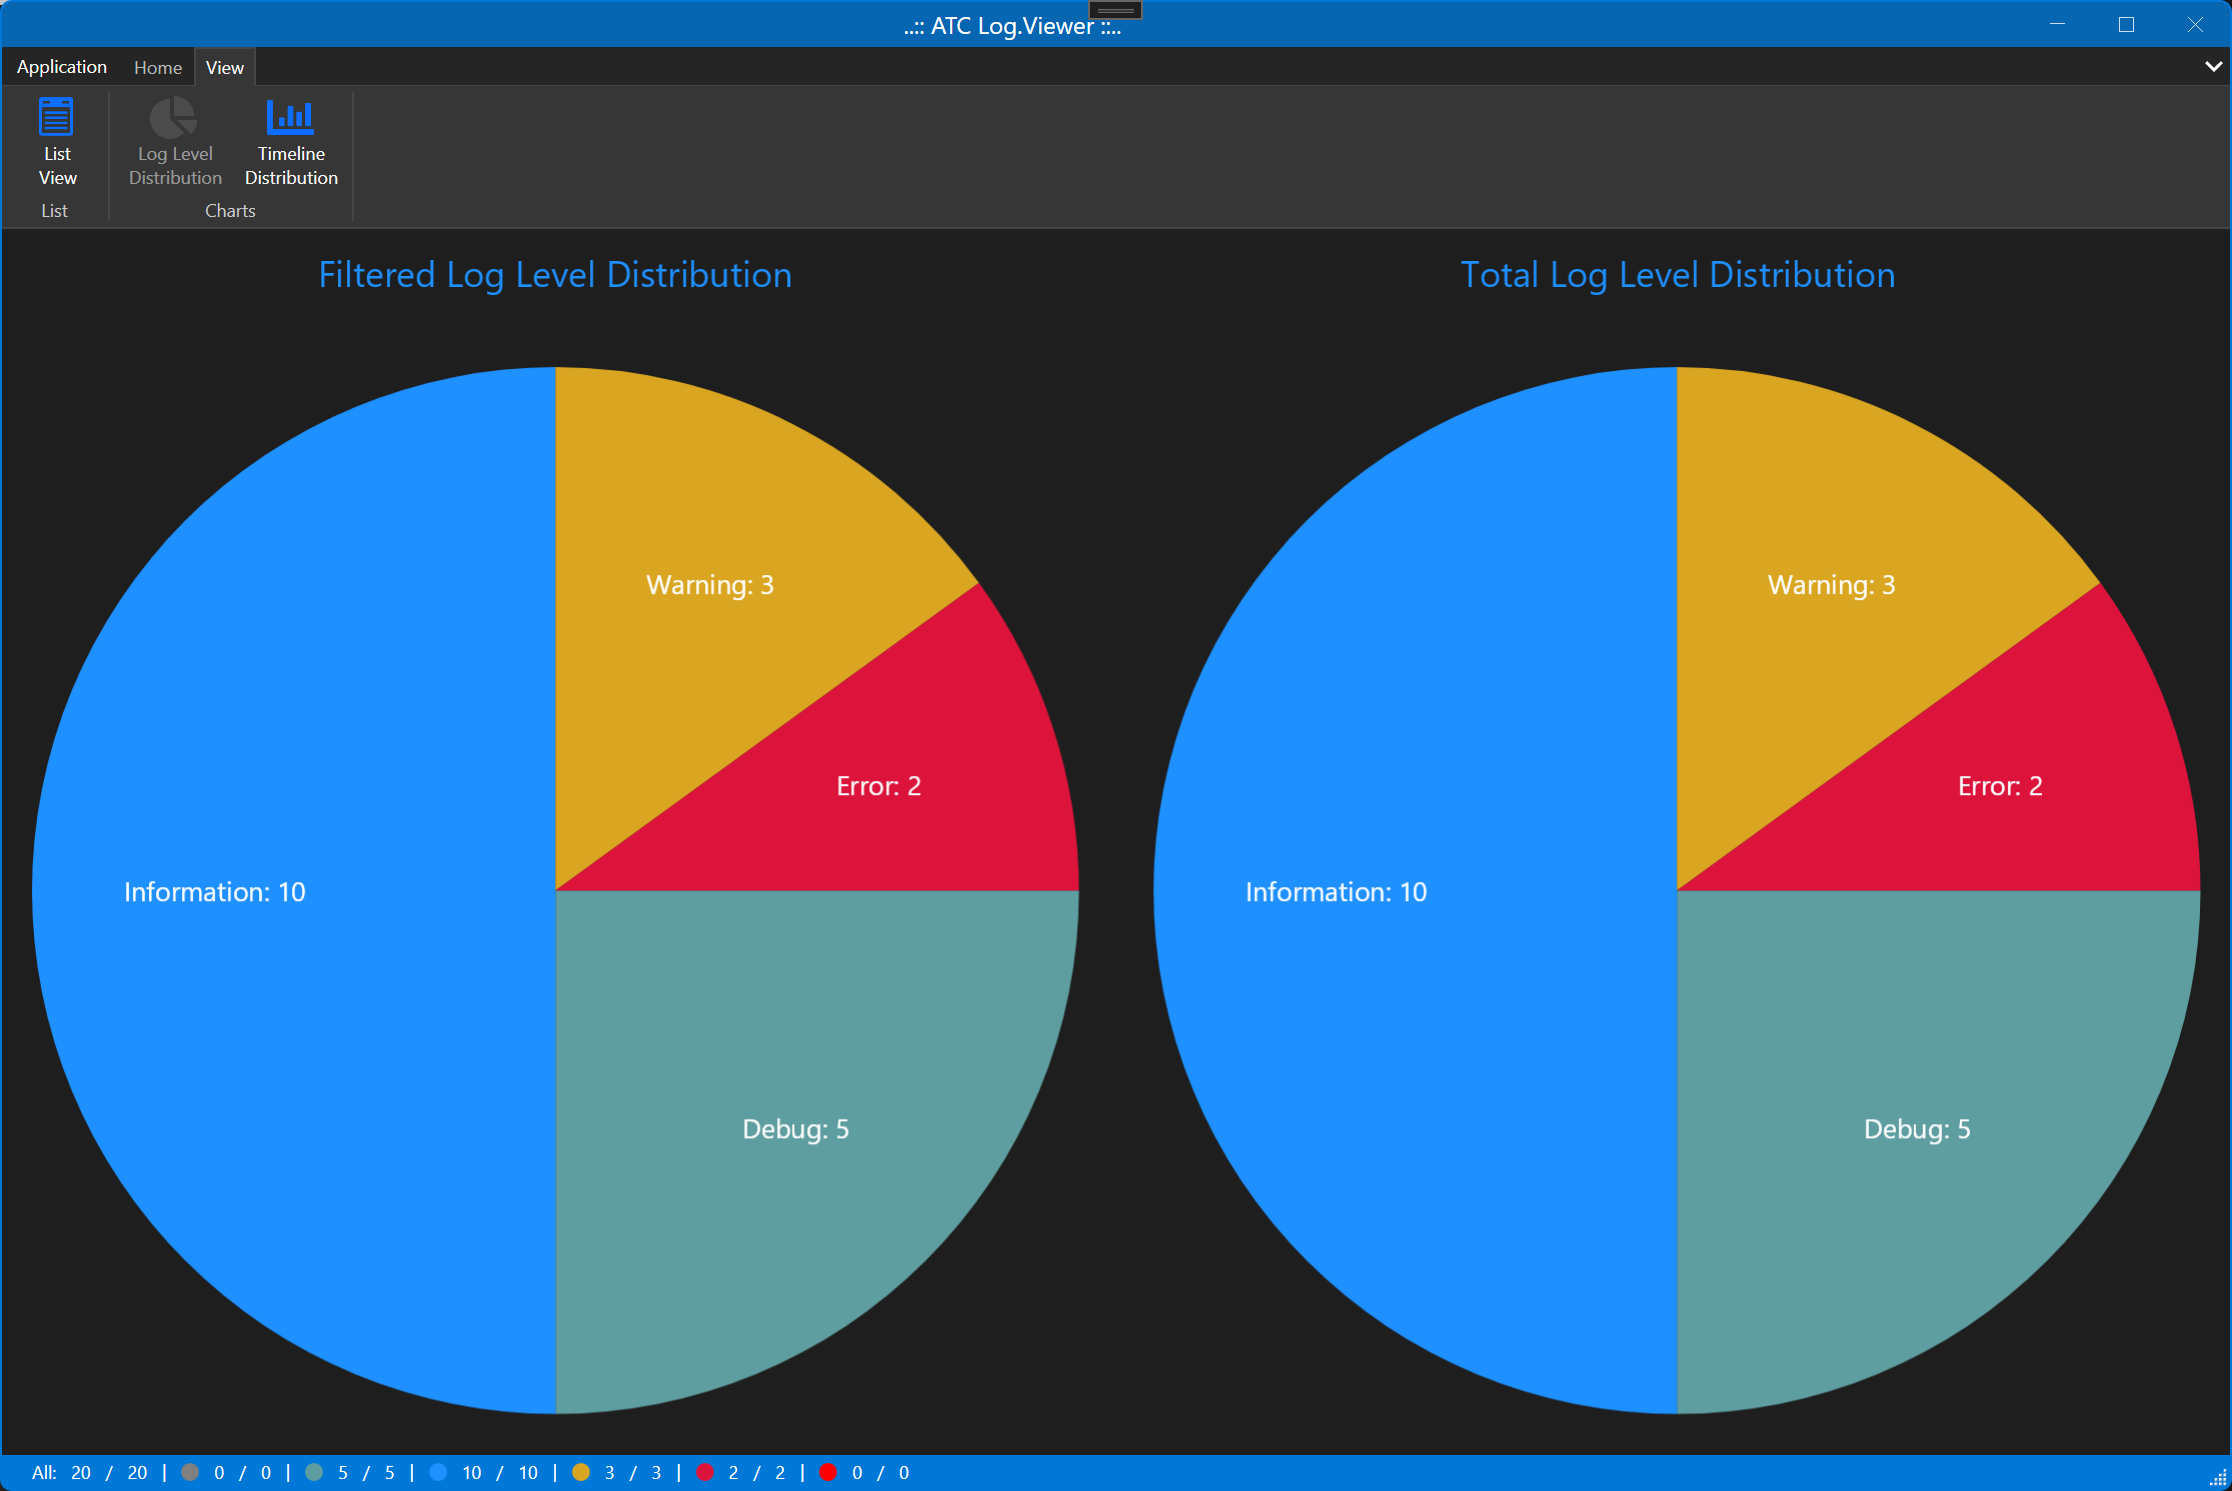
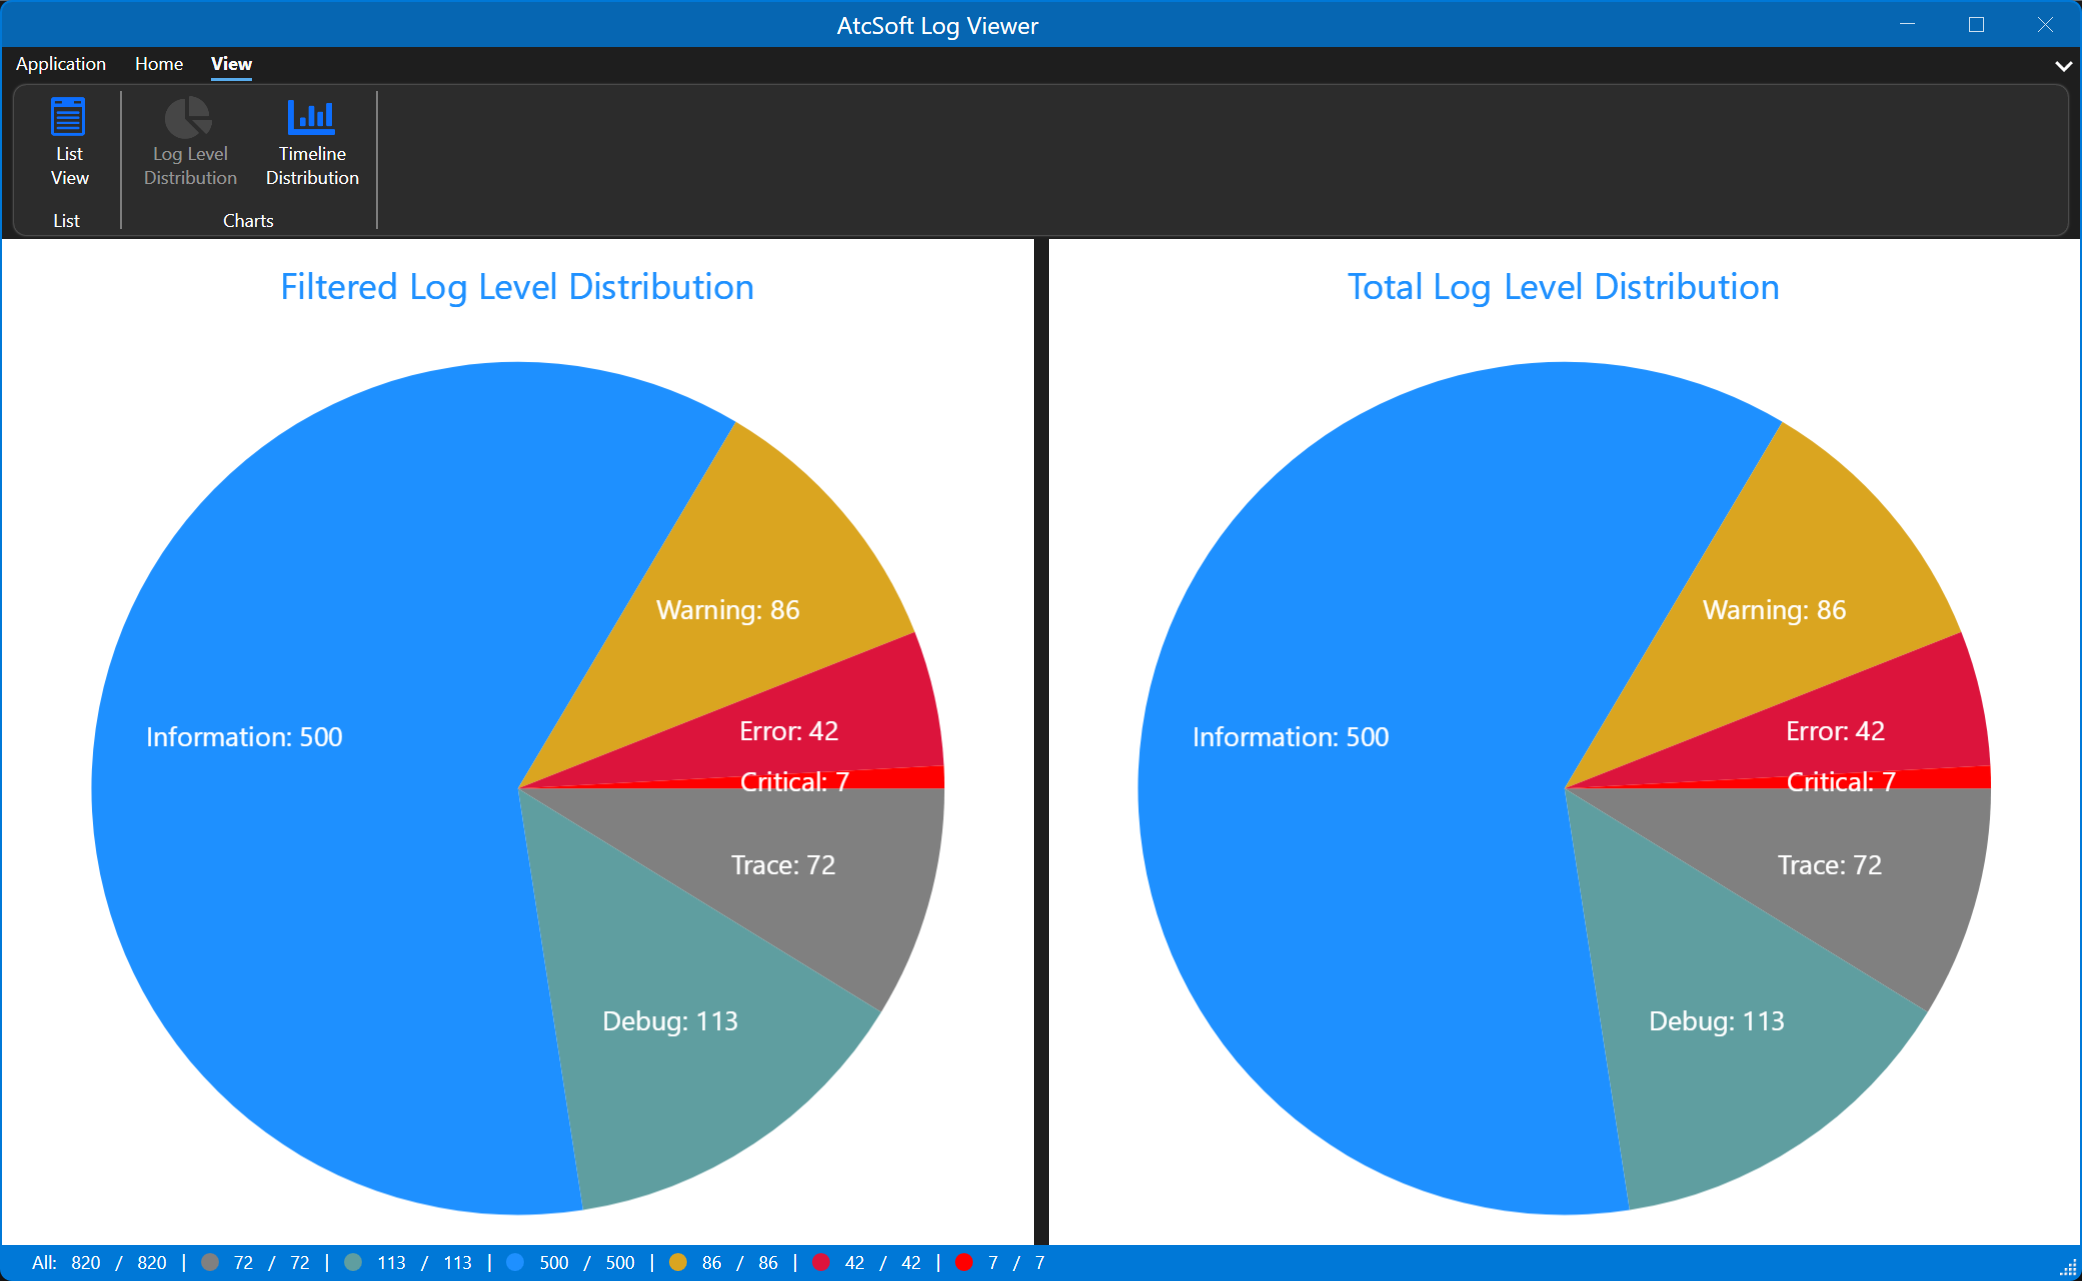
docs: new README screenshots, and a way to take them again
The screenshots came from the old repo and showed the old name and
status bar. ReadmeScreenshots writes sample logs of the last 50 minutes,
opens the viewer in the light and the dark theme, and captures the list
and the two charts into docs/images. It runs only when
ATCSOFT_SCREENSHOTS=1.

diff --git a/test/AtcSoft.Log.Viewer.E2E.Tests/ReadmeScreenshots.cs b/test/AtcSoft.Log.Viewer.E2E.Tests/ReadmeScreenshots.cs
@@ -1,0 +1,194 @@
+namespace AtcSoft.Log.Viewer.E2E;
+
+/// <summary>
+/// Takes the README's screenshots: the list and the two charts, in the light and the dark theme, with
+/// sample logs of the last 50 minutes. Not a test: it runs only when asked, because it writes to docs/images.
+/// </summary>
+/// <remarks>
+/// Run it with the UI tests enabled: <c>ATCSOFT_E2E=1</c> and <c>ATCSOFT_SCREENSHOTS=1</c>. The window must be
+/// visible on the screen while it runs, since a screenshot is taken of the screen.
+/// </remarks>
+[Collection(E2ETestGroup.Name)]
+public sealed class ReadmeScreenshots
+{
+    public const string EnableVariable = "ATCSOFT_SCREENSHOTS";
+
+    private const nint PerMonitorAwareV2 = -4;
+    private const int ExtendedFrameBounds = 9;
+
+    private static readonly string[] Systems = ["Contoso.Orders", "Contoso.Billing", "Contoso.Identity"];
+
+    private static readonly string[] InfoMessages =
+    [
+        "Order {0} received from customer {1}",
+        "Order {0} validated in {2} ms",
+        "Invoice {0} created for customer {1}",
+        "User {1} signed in",
+        "Payment for order {0} captured",
+        "Order {0} shipped with tracking number {3}",
+    ];
+
+    [Theory]
+    [InlineData("Light.Blue", "lm")]
+    [InlineData("Dark.Blue", "dm")]
+    public void Capture(
+        string theme,
+        string prefix)
+    {
+        Assert.SkipUnless(
+            E2ESettings.IsEnabled &&
+            string.Equals(Environment.GetEnvironmentVariable(EnableVariable), "1", StringComparison.Ordinal),
+            $"Takes the README screenshots only when {E2ESettings.EnableVariable}=1 and {EnableVariable}=1.");
+
+        // UI Automation and the screen capture must agree on pixels when Windows scales the display
+        SetProcessDpiAwarenessContext(PerMonitorAwareV2);
+
+        // Arrange
+        var folder = E2ESettings.NewFolder("screenshot-logs-" + prefix);
+        var count = WriteSampleLogs(folder);
+
+        using var run = new ViewerRun(
+            "screenshots-" + prefix,
+            folder,
+            LogFileCollectorType.Serilog,
+            settings: new Dictionary<string, string>(StringComparer.Ordinal) { ["Application__Theme"] = theme });
+        var app = run.App;
+        var main = run.Main;
+        run.WaitForCount(ViewerRun.CollectedCountId, count, TimeSpan.FromSeconds(60));
+
+        if (main.Patterns.Window.TryGetPattern(out var window))
+        {
+            window.SetWindowVisualState(WindowVisualState.Normal);
+        }
+
+        var scale = GetDpiForWindow(main.Properties.NativeWindowHandle.Value) / 96.0;
+        var transform = main.Patterns.Transform.Pattern;
+        transform.Move(40, 40);
+        transform.Resize(1400 * scale, 860 * scale);
+        main.SetForeground();
+        DesktopApp.Settle(TimeSpan.FromSeconds(1.5));
+
+        // Act
+        Save(main, prefix + "-list.png");
+
+        app.SelectTab(main, "View");
+        DesktopApp.Press(app.Find(main, "Log Level Distribution"));
+        DesktopApp.Settle(TimeSpan.FromSeconds(2));
+        Save(main, prefix + "-graph-pie.png");
+
+        DesktopApp.Press(app.Find(main, "Timeline Distribution"));
+        DesktopApp.Settle(TimeSpan.FromSeconds(2));
+        Save(main, prefix + "-graph-bar.png");
+
+        // Assert
+        app.ShouldNotHaveCrashed();
+        app.CloseApp(main).Should().BeTrue("the viewer must close when its window is closed");
+    }
+
+    [System.Runtime.InteropServices.DllImport("user32.dll")]
+    [System.Runtime.InteropServices.DefaultDllImportSearchPaths(System.Runtime.InteropServices.DllImportSearchPath.System32)]
+    [return: System.Runtime.InteropServices.MarshalAs(System.Runtime.InteropServices.UnmanagedType.Bool)]
+    private static extern bool SetProcessDpiAwarenessContext(nint value);
+
+    [System.Runtime.InteropServices.DllImport("user32.dll")]
+    [System.Runtime.InteropServices.DefaultDllImportSearchPaths(System.Runtime.InteropServices.DllImportSearchPath.System32)]
+    private static extern uint GetDpiForWindow(nint hwnd);
+
+    [System.Runtime.InteropServices.DllImport("user32.dll")]
+    [System.Runtime.InteropServices.DefaultDllImportSearchPaths(System.Runtime.InteropServices.DllImportSearchPath.System32)]
+    private static extern nint GetForegroundWindow();
+
+    [System.Runtime.InteropServices.DllImport("dwmapi.dll")]
+    [System.Runtime.InteropServices.DefaultDllImportSearchPaths(System.Runtime.InteropServices.DllImportSearchPath.System32)]
+    private static extern int DwmGetWindowAttribute(
+        nint hwnd,
+        int attribute,
+        out NativeRect value,
+        int size);
+
+    /// <summary>
+    /// Saves the window as Windows draws it, without the invisible resize border around it.
+    /// </summary>
+    private static void Save(
+        AutomationElement window,
+        string fileName)
+    {
+        // A screenshot is taken of the screen, so the viewer must be in front of every other window
+        var handle = window.Properties.NativeWindowHandle.Value;
+        var deadline = DateTime.UtcNow + TimeSpan.FromSeconds(10);
+        while (GetForegroundWindow() != handle)
+        {
+            if (DateTime.UtcNow > deadline)
+            {
+                throw new InvalidOperationException($"The viewer is not the foreground window, so {fileName} would show another window.");
+            }
+
+            window.AsWindow().SetForeground();
+            DesktopApp.Settle(TimeSpan.FromMilliseconds(500));
+        }
+
+        DesktopApp.Settle(TimeSpan.FromMilliseconds(500));
+        var path = Path.Combine(E2ESettings.RepositoryRoot, "docs", "images", fileName);
+        var bounds = window.BoundingRectangle;
+        if (DwmGetWindowAttribute(window.Properties.NativeWindowHandle.Value, ExtendedFrameBounds, out var frame, System.Runtime.InteropServices.Marshal.SizeOf<NativeRect>()) == 0)
+        {
+            bounds = new System.Drawing.Rectangle(frame.Left, frame.Top, frame.Right - frame.Left, frame.Bottom - frame.Top);
+        }
+
+        FlaUI.Core.Capturing.Capture.Rectangle(bounds).ToFile(path);
+    }
+
+    [System.Runtime.InteropServices.StructLayout(System.Runtime.InteropServices.LayoutKind.Sequential)]
+    private struct NativeRect
+    {
+        public int Left;
+        public int Top;
+        public int Right;
+        public int Bottom;
+    }
+
+    /// <summary>
+    /// Writes one Serilog file per system with entries over the last 50 minutes: mostly information,
+    /// some debug and trace, a few warnings, errors with a stack trace, and one critical.
+    /// </summary>
+    /// <returns>The number of entries written.</returns>
+    [SuppressMessage("Security", "CA5394:Do not use insecure randomness", Justification = "Sample log content, seeded so every run looks the same.")]
+    private static int WriteSampleLogs(string folder)
+    {
+        var random = new Random(42);
+        var now = DateTime.Now;
+        var total = 0;
+        foreach (var system in Systems)
+        {
+            var lines = new List<string>();
+            var time = now.AddMinutes(-50);
+            while (time < now.AddSeconds(-5))
+            {
+                time = time.AddMilliseconds(random.Next(2_000, 20_000));
+                var roll = random.Next(100);
+                var (level, message, stackTrace) = roll switch
+                {
+                    < 8 => ("VRB", $"Cache lookup for key order:{random.Next(1_000, 9_999)}", false),
+                    < 22 => ("DBG", $"Query took {random.Next(2, 80)} ms", false),
+                    < 82 => ("INF", string.Format(CultureInfo.InvariantCulture, InfoMessages[random.Next(InfoMessages.Length)], random.Next(60_000, 69_999), random.Next(100, 999), random.Next(5, 300), $"DK{random.Next(100_000, 999_999)}"), false),
+                    < 93 => ("WRN", $"Retrying call to the payment gateway, attempt {random.Next(2, 4)}", false),
+                    < 99 => ("ERR", $"Order {random.Next(60_000, 69_999)} could not be processed", true),
+                    _ => ("FTL", "Database connection lost", true),
+                };
+
+                lines.Add($"{time.ToString("yyyy-MM-dd HH:mm:ss.fff zzz", CultureInfo.InvariantCulture)} [{level}] {message}");
+                if (stackTrace)
+                {
+                    lines.Add("System.InvalidOperationException: The operation could not be completed");
+                    lines.Add($"   at {system}.Worker.ProcessAsync(CancellationToken token) in Worker.cs:line {random.Next(20, 200)}");
+                }
+
+                total++;
+            }
+
+            File.WriteAllLines(Path.Combine(folder, $"{system}-{now:yyyyMMdd}.log"), lines);
+        }
+
+        return total;
+    }
+}

diff --git a/test/AtcSoft.Log.Viewer.E2E.Tests/Infrastructure/ViewerRun.cs b/test/AtcSoft.Log.Viewer.E2E.Tests/Infrastructure/ViewerRun.cs
@@ -32,7 +32,8 @@ internal sealed class ViewerRun : IDisposable
         string? logFolder = null,
         LogFileCollectorType collectorType = LogFileCollectorType.None,
         string? workingDirectory = null,
-        string? releaseFile = null)
+        string? releaseFile = null,
+        IReadOnlyDictionary<string, string>? settings = null)
     {
         DataFolder = E2ESettings.NewFolder(name + "-data");
         if (logFolder is not null)
@@ -45,6 +46,11 @@ internal sealed class ViewerRun : IDisposable
             [AppDataPaths.DataPathVariable] = DataFolder,
             ["Application__OpenRecentFileOnStartup"] = "true",
         };
+
+        foreach (var (key, value) in settings ?? new Dictionary<string, string>(StringComparer.Ordinal))
+        {
+            environment[key] = value;
+        }
 
         // Never GitHub: either no check at start, or a release the test wrote
         if (releaseFile is null)

diff --git a/test/AtcSoft.Log.Viewer.E2E.Tests/GlobalUsings.cs b/test/AtcSoft.Log.Viewer.E2E.Tests/GlobalUsings.cs
@@ -1,4 +1,5 @@
 global using System.Diagnostics;
+global using System.Diagnostics.CodeAnalysis;
 global using System.Globalization;
 global using System.Text;
 global using Aspire.Hosting;

diff --git a/docs/e2e-tests.md b/docs/e2e-tests.md
@@ -37,6 +37,16 @@ Every check for a crash also fails on a plain Windows message box: the app shows
 
 Each live test opens its folder through a profile with no log format set. The viewer must find the format from the files. Before a fix, opening a folder this way crashed; without that fix, `Follows_Appends_Rolls_Deletes_And_New_Files` fails on the app's "Error" dialog.
 
+## 🖼 README screenshots
+
+`ReadmeScreenshots` takes the six screenshots in `docs/images` (list, log level and timeline charts, light and dark theme) with sample logs of the last 50 minutes. It runs only when asked, and the window must be visible on the screen:
+
+```powershell
+$env:ATCSOFT_E2E = 1
+$env:ATCSOFT_SCREENSHOTS = 1
+dotnet test --project test/AtcSoft.Log.Viewer.E2E.Tests -c Release --no-build -- --filter-class "*ReadmeScreenshots"
+```
+
 ## 🔒 What they never touch
 
 - 💾 **Your data:** the viewer gets its own data folder (`ATCSOFT_LOGVIEWER_DATA_PATH`), so your profiles and recent files are not read or changed. The copy of data from earlier versions is skipped for such a folder.
